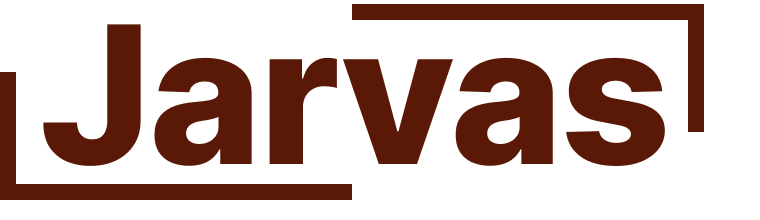
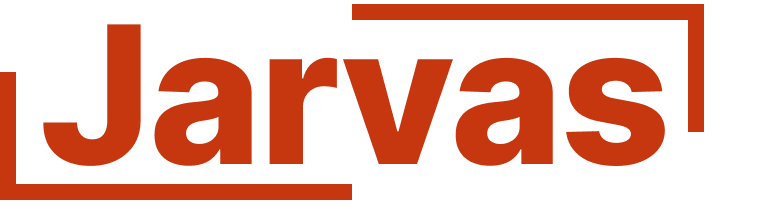
Update branding

diff --git a/src/app/manifest.ts b/src/app/manifest.ts
@@ -2,19 +2,26 @@ import type { MetadataRoute } from "next";
 
 export default function manifest(): MetadataRoute.Manifest {
   return {
-    name: "Jarvas - O assistente pessoal da sua empresa",
-    short_name: "Ask Jarvas",
-    description:
-      "Use a informação da sua empresa como um ativo com o qual pode falar",
+    name: "Jarvas",
+    short_name: "Jarvas",
+    description: "The Search Engine for Your Company",
     categories: ["productivity", "business", "utilities"],
     start_url: "/",
+    theme_color: "#ffffff",
+    background_color: "#ffffff",
     display: "standalone",
-    background_color: "#fff",
-    theme_color: "#ffebe5",
     icons: [
       {
-        src: "icon.svg",
-        sizes: "any",
+        src: "/web-app-manifest-192x192.png",
+        sizes: "192x192",
+        type: "image/png",
+        purpose: "maskable",
+      },
+      {
+        src: "/web-app-manifest-512x512.png",
+        sizes: "512x512",
+        type: "image/png",
+        purpose: "maskable",
       },
     ],
   };
